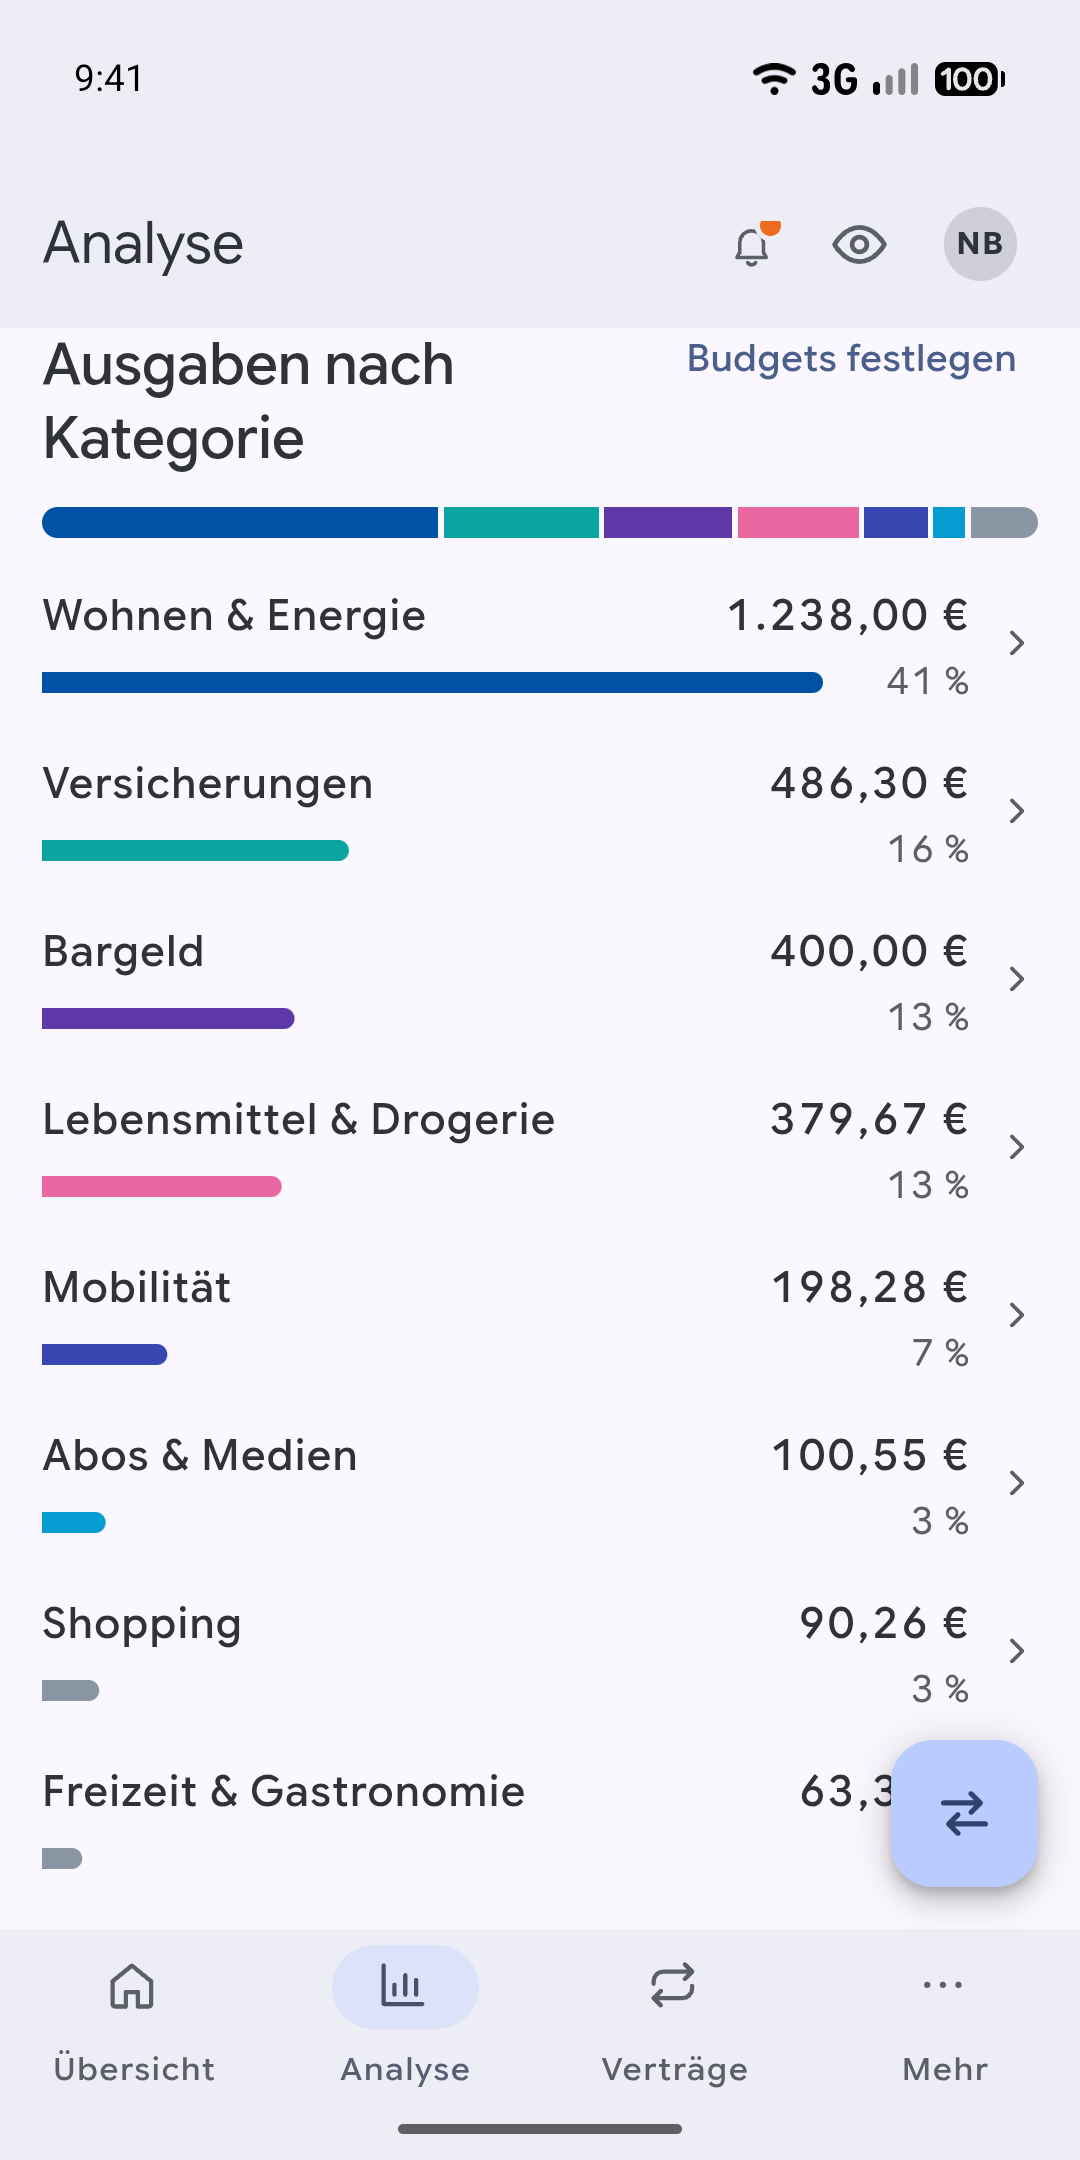
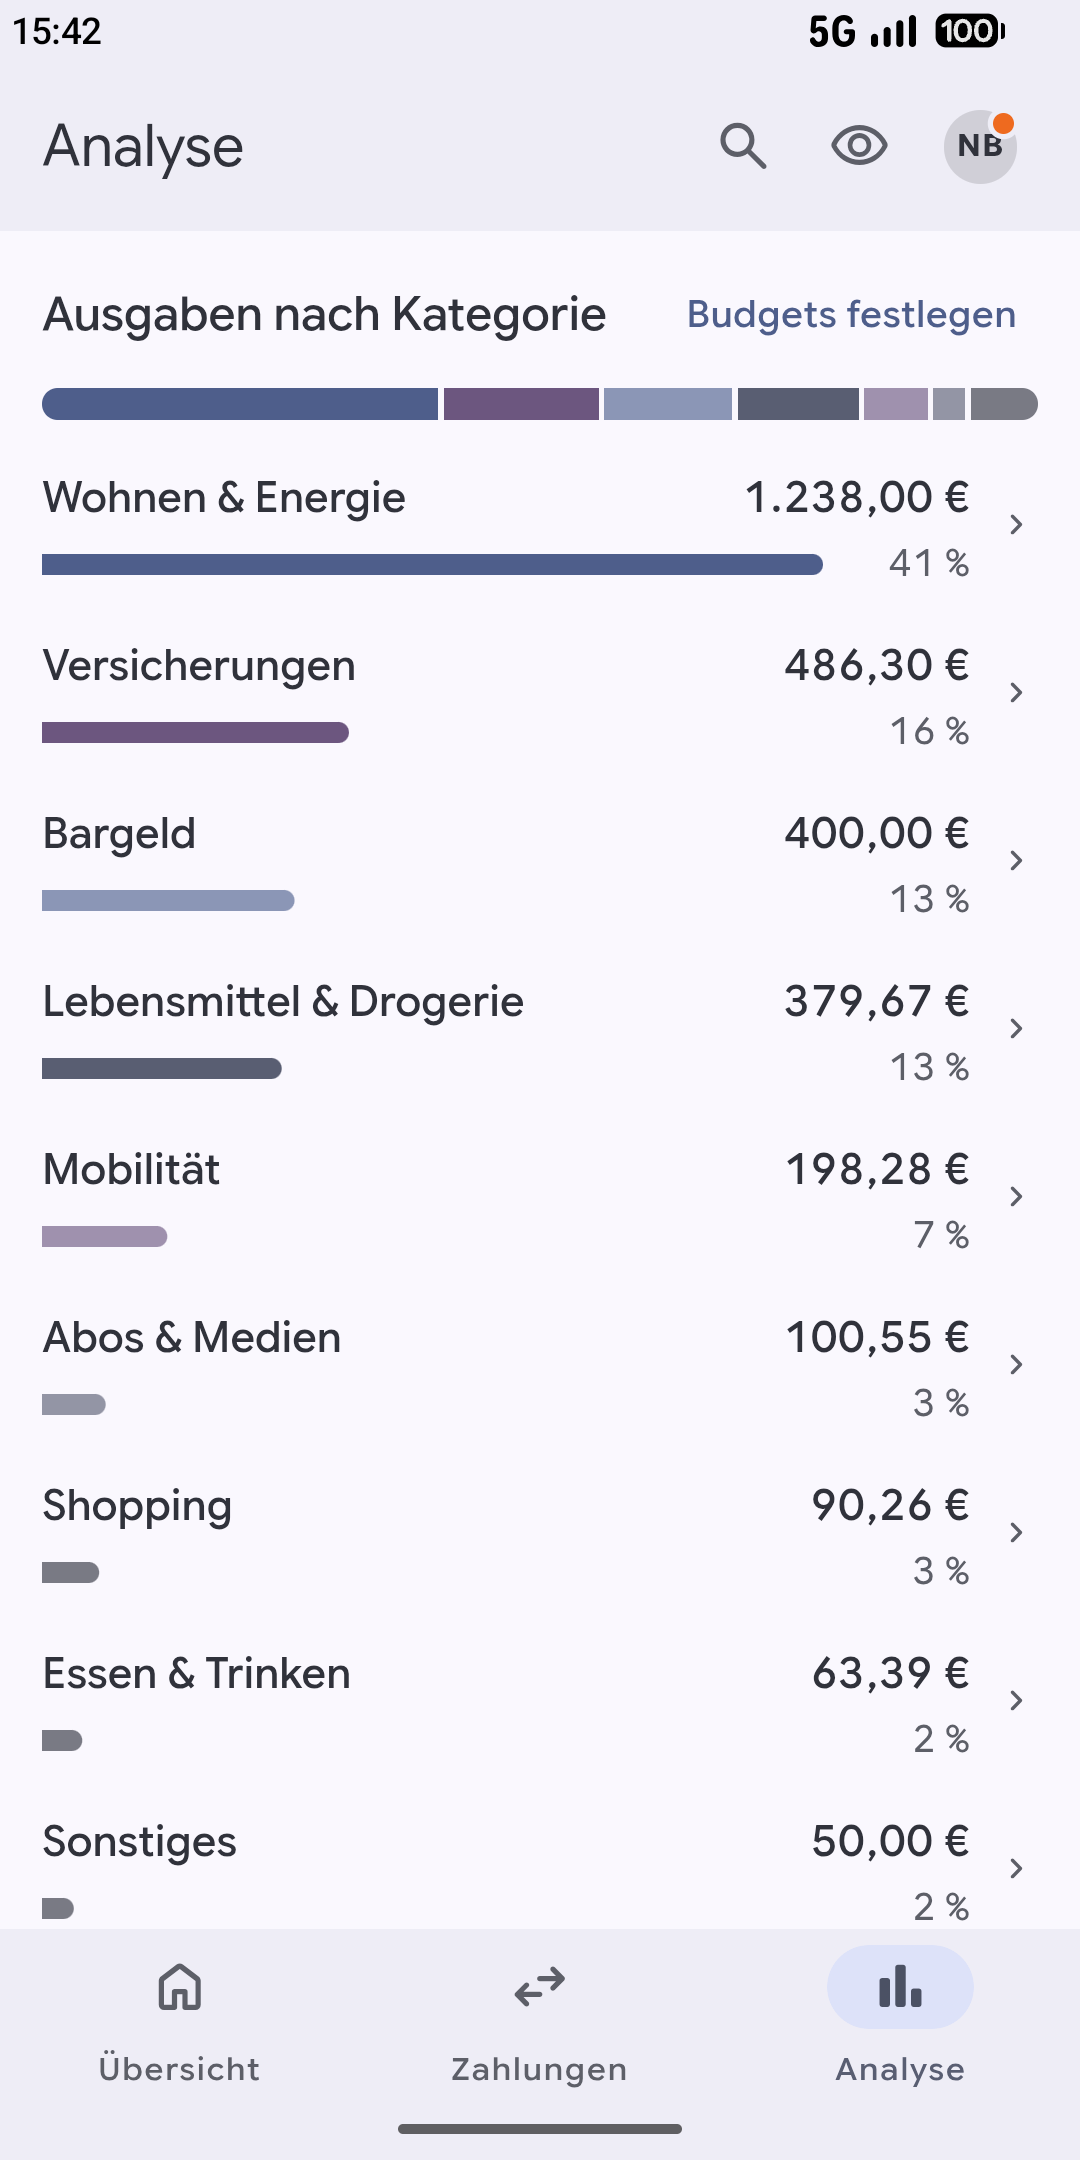
(feat) 5.11.0: Play screenshots
The redesign's eight: Übersicht, Suche, Frag deine Umsätze, Analyse, Zahlungen, Überweisung, Umsatzdetails, Anmeldung. Without the AVD's camera-hole profile (a 24 dp status bar), 5G on the real status bar, 24-hour clock; the routine in listing.md says how.

diff --git a/android/store/listing.md b/android/store/listing.md
@@ -11,12 +11,13 @@ translations").
 | Full description | `de-DE/full-description.txt`, `en-US/full-description.txt` | 4,000 characters |
 | App icon | `icon-512.png` — 512 × 512, 32-bit PNG, full square (Play rounds it) | 1 MB |
 | Feature graphic | `feature-graphic.png` — 1024 × 500, 24-bit PNG | 15 MB |
-| Phone screenshots | `screenshots/1-…png` to `7-…png` — 1080 × 2160 (9:18, Play's 2:1 limit), 24-bit PNG, German interface, in upload order | 2–8 |
+| Phone screenshots | `screenshots/1-…png` to `8-…png` — 1080 × 2160 (9:18, Play's 2:1 limit), 24-bit PNG, German interface, in upload order | 2–8 |
 
 The screenshots show the design preview's sample data (no real account):
-Übersicht, its Umsätze, "Frag deine Umsätze" answering "Wie viel ging an
-Amazon?", the Analyse's categories, Verträge, a filled-in Überweisung and
-Geld anfordern. Last made for 5.8.0.
+the Übersicht, the search ("dm"), "Frag deine Umsätze" answering "Wie viel
+ging an Amazon?", the Analyse's categories, Zahlungen, an Überweisung at its
+amount, a booking's Umsatzdetails and the bank choice at login. Last made for
+5.11.0.
 
 ### Making them again
 
@@ -29,23 +30,37 @@ design preview from this computer:
    `gradlew assembleGithubDebug` and install it on the emulator
 3. The emulator headless at Play's size — its skin file is missing, so give
    the size instead: `emulator -avd Pixel_10_Pro_XL -skin 1080x2160 -no-window`
-4. `adb shell wm density 420`, `adb shell cmd uimode night no`, and the
-   demo status bar: `settings put global sysui_demo_allowed 1`, then
-   `am broadcast -a com.android.systemui.demo -e command …` with `enter`,
-   `clock -e hhmm 0941`, `battery -e level 100 -e plugged false`,
-   `network -e wifi show -e level 4 -e fully true`,
-   `network -e mobile show -e datatype none -e level 4 -e fully true`,
-   `notifications -e visible false`
-5. Open each view in the app's WebView over the debug bridge
+4. The phone's own look at that size (5.11.0): the AVD's Pixel profile puts a
+   camera hole into the status bar and makes it 61 dp tall at 1080 × 2160, so
+   switch it off — `cmd overlay disable com.android.internal.emulation.pixel_10_pro_xl`
+   and `… com.android.systemui.emulation.pixel_10_pro_xl` — then
+   `wm density 420` (set 421 first and back if the status bar keeps its old
+   159 px; `dumpsys window | grep type=statusBars` should say 63).
+   `cmd uimode night no`, `settings put system time_12_24 24`.
+5. The real status bar, not demo mode: demo mode's mobile signal ignores the
+   network type and shows "3G". The emulator's modem is 5G already; turn
+   Wi-Fi off (`svc wifi disable`, else Android hides "5G"), `adb emu gsm
+   signal-profile 4`, and check `adb emu power display` says discharging at
+   100. The clock is then the emulator's own, the same one the app's "Stand"
+   shows. The signal still dips now and then: retake a shot until the fourth
+   bar is dark.
+6. The app in German: in its WebView `localStorage.setItem('fints.locale',
+   'de')` and the cookie `girovo-locale=de`, then reload.
+7. Open each view in the app's WebView over the debug bridge
    (`adb forward tcp:9333 localabstract:webview_devtools_remote_<pid>`, then
-   CDP `Runtime.evaluate` of `location.href = …`):
-   `/design-preview?view=overview-single`, the same scrolled to "Umsätze",
-   `view=analysis` with the question typed and sent, `view=analysis` scrolled
-   to "Ausgaben nach Kategorie", `view=contracts`, `view=transfer-filled`,
-   `view=share` — each with `&nano=available`. Hide the dev server's badge
-   (`nextjs-portal { display: none }`) before `adb exec-out screencap -p`.
-6. Afterwards: delete `public/mobile-runtime.js` (the desktop build must not
-   find it) and run `npx cap sync android` without `GIROVO_DEV_SERVER`.
+   CDP `Runtime.evaluate` of `location.href = …`), each with `&nano=available`:
+   `/design-preview?view=overview-single`; the same with the search bar
+   tapped and "dm" typed (`adb shell input text`); `view=analysis` with "Wie
+   viel ging an Amazon?" typed and sent; `view=analysis` scrolled to "Ausgaben
+   nach Kategorie"; `view=contracts`; `view=transfer-filled`; `view=detail`;
+   `view=login`. Before `adb exec-out screencap -p`: blur the focused element
+   (no keyboard, no focus ring) and hide the dev server's badge
+   (`nextjs-portal { display: none }`). Save as 24-bit PNG (screencap's has
+   an alpha channel).
+8. Afterwards: put the emulator back (both overlays enabled, `wm density
+   reset`, Wi-Fi on, `settings delete system time_12_24`), delete
+   `public/mobile-runtime.js` (the desktop build must not find it) and run
+   `npx cap sync android` without `GIROVO_DEV_SERVER`.
 
 ## Store settings
 
